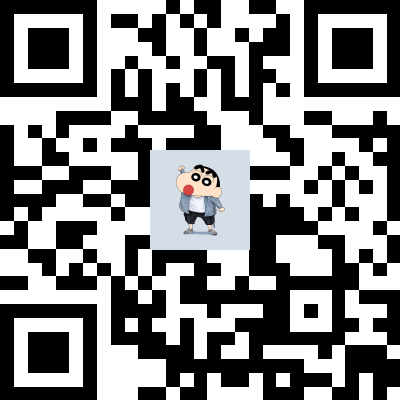
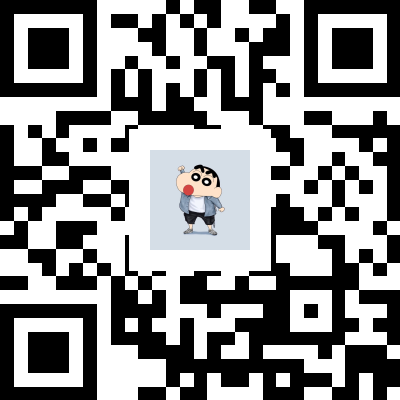
feat:提高识别率

diff --git a/src/index.ts b/src/index.ts
@@ -45,13 +45,14 @@ export async function generateQRCode(
     margin = 0,
     color = "#000000",
     background = "#FFFFFF",
-    logoSize = size * 0.25,
+    logoSize = size * 0.2, // 减小 logo 的默认大小
   } = options;
 
   const canvas = createCanvas(size, size);
   const ctx = canvas.getContext("2d");
   if (!ctx) throw new Error("Cannot get canvas context");
 
+  // 先绘制二维码
   await QRCode.toCanvas(canvas, text, {
     width: size,
     margin,
@@ -70,12 +71,25 @@ export async function generateQRCode(
       // 恢复默认的 SSL 验证
       process.env.NODE_TLS_REJECT_UNAUTHORIZED = '1';
       
-      const x = (size - logoSize) / 2;
-      const y = (size - logoSize) / 2;
+      // 计算 logo 的位置和大小
+      const logoMargin = size * 0.05; // logo 周围的空白区域
+      const logoAreaSize = logoSize + logoMargin * 2;
+      const x = (size - logoAreaSize) / 2;
+      const y = (size - logoAreaSize) / 2;
 
+      // 绘制白色背景
       ctx.fillStyle = "#FFFFFF";
-      ctx.fillRect(x, y, logoSize, logoSize);
-      ctx.drawImage(logo, x, y, logoSize, logoSize);
+      ctx.fillRect(x, y, logoAreaSize, logoAreaSize);
+
+      // 绘制 logo
+      const logoX = x + logoMargin;
+      const logoY = y + logoMargin;
+      ctx.drawImage(logo, logoX, logoY, logoSize, logoSize);
+
+      // 在 logo 周围添加一个细边框，提高识别率
+      ctx.strokeStyle = "#FFFFFF";
+      ctx.lineWidth = 2;
+      ctx.strokeRect(x, y, logoAreaSize, logoAreaSize);
     } catch (error) {
       console.error("Error loading logo:", error);
       // 恢复默认的 SSL 验证
